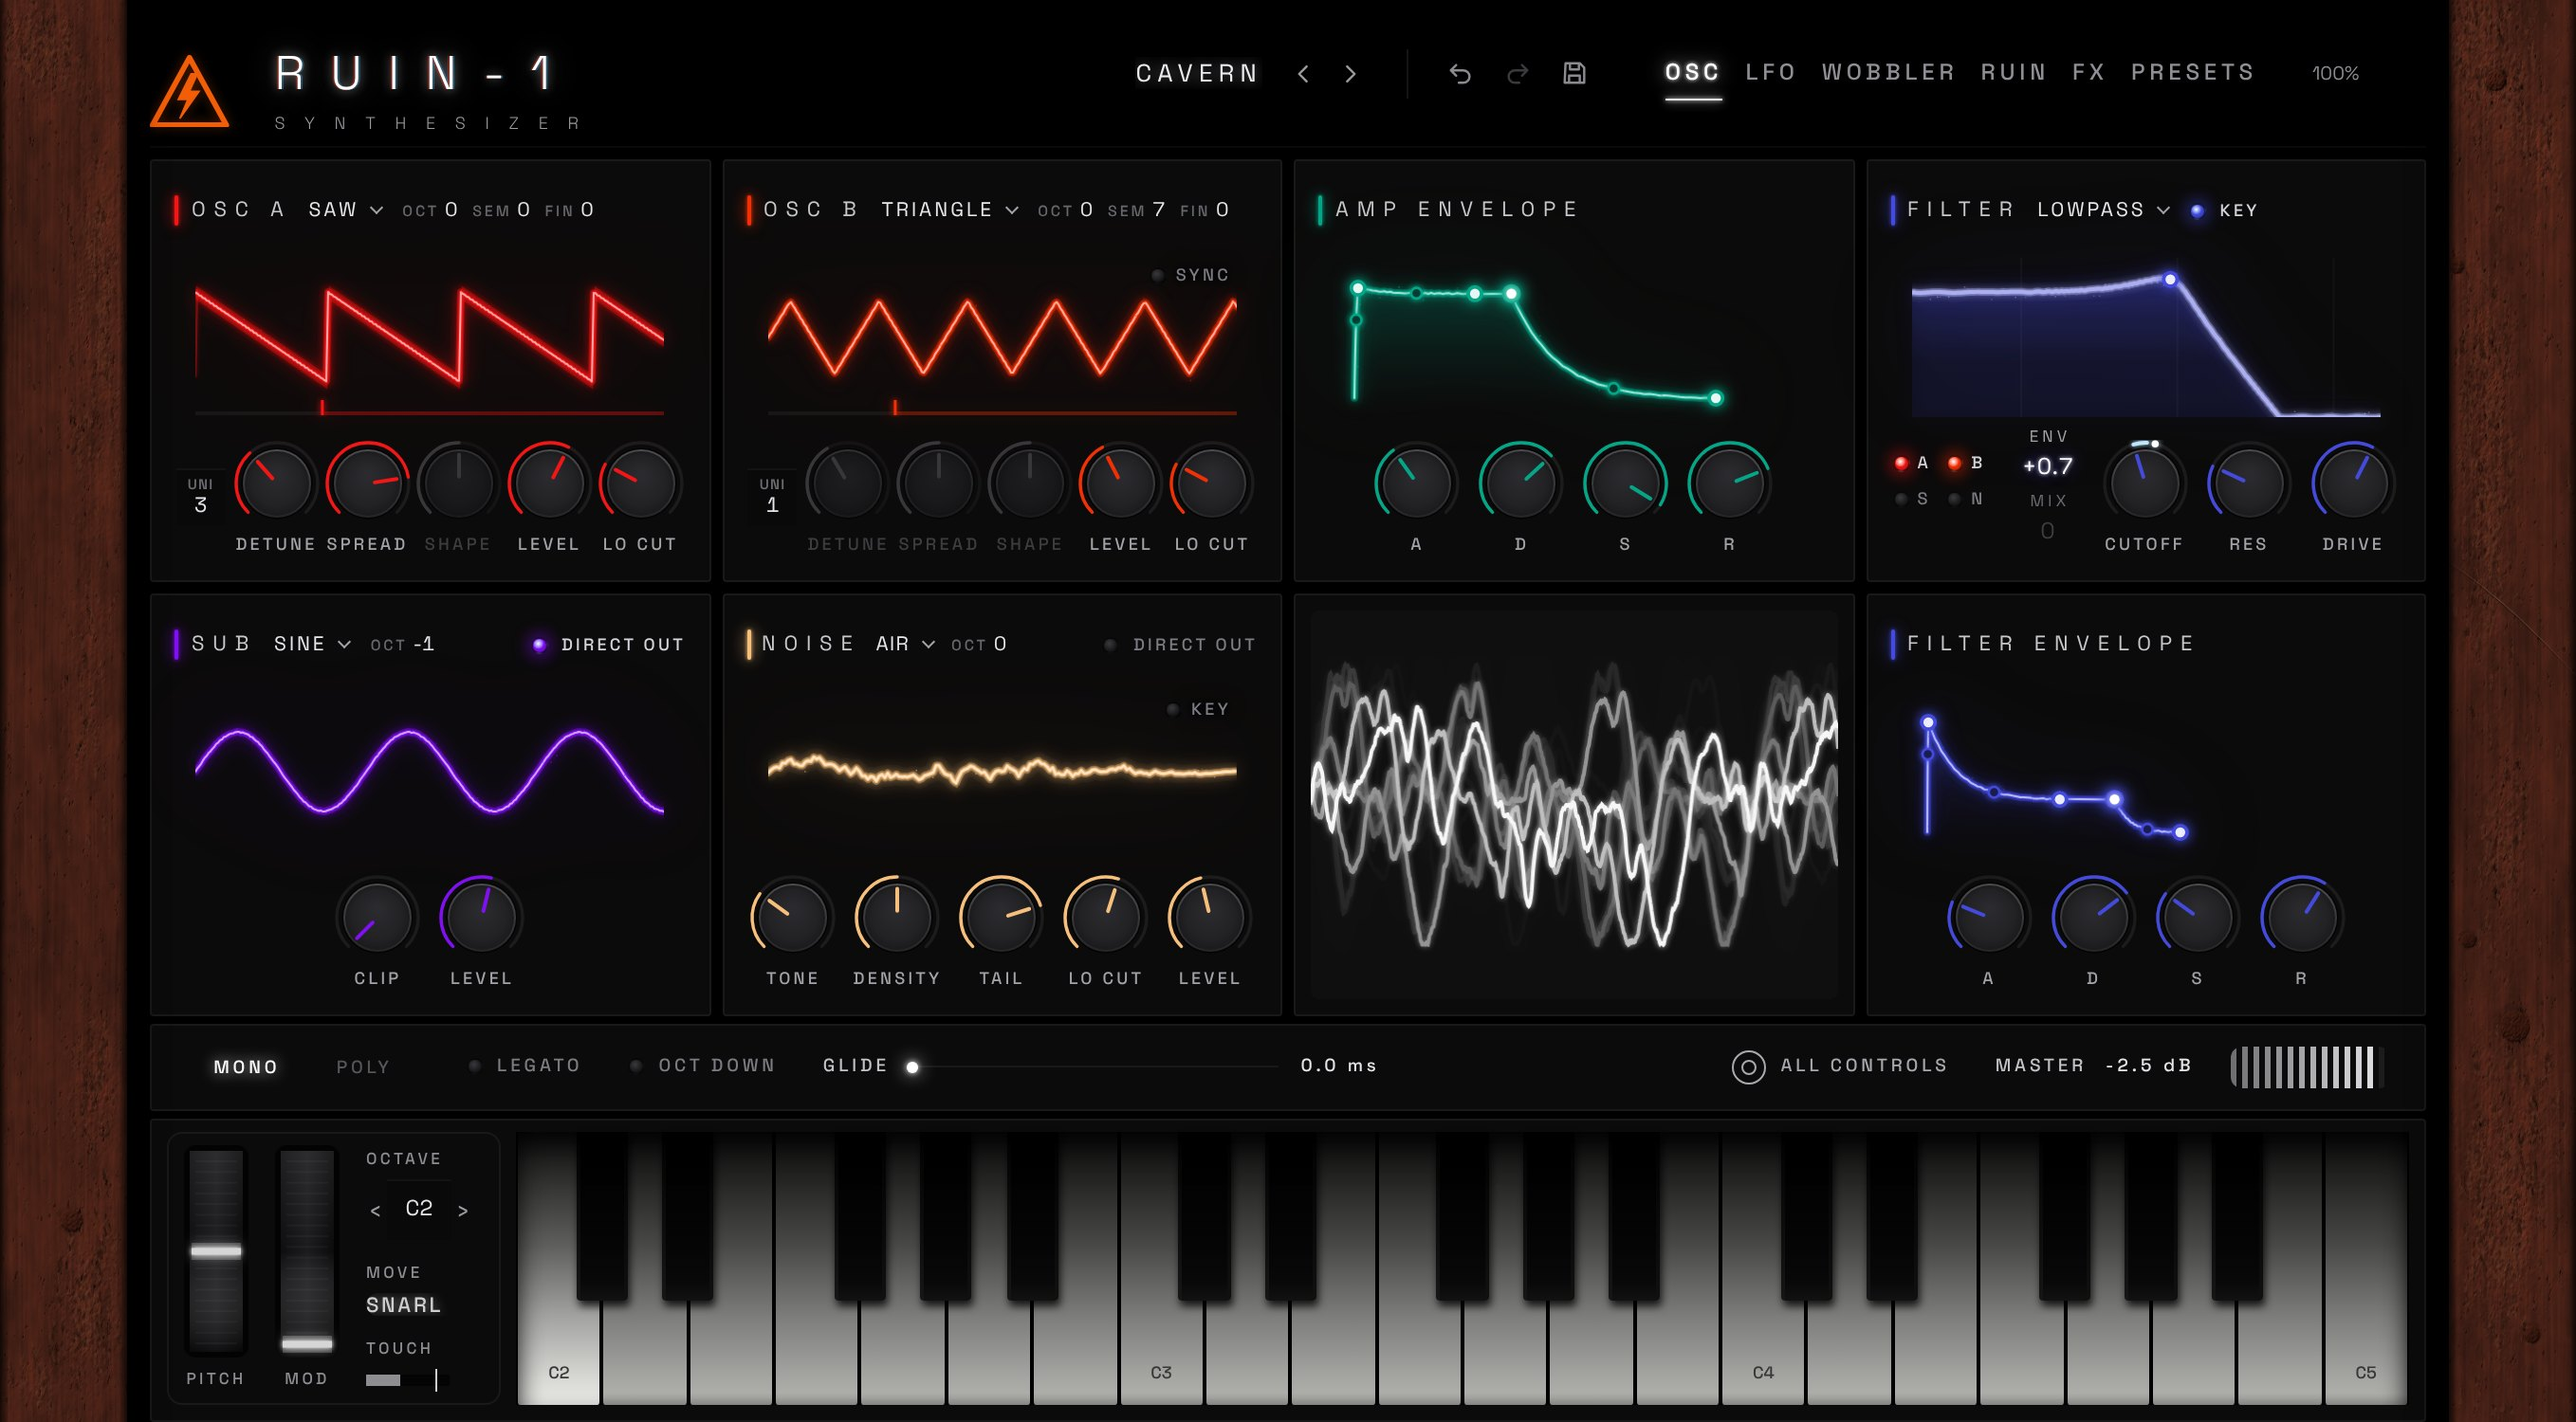
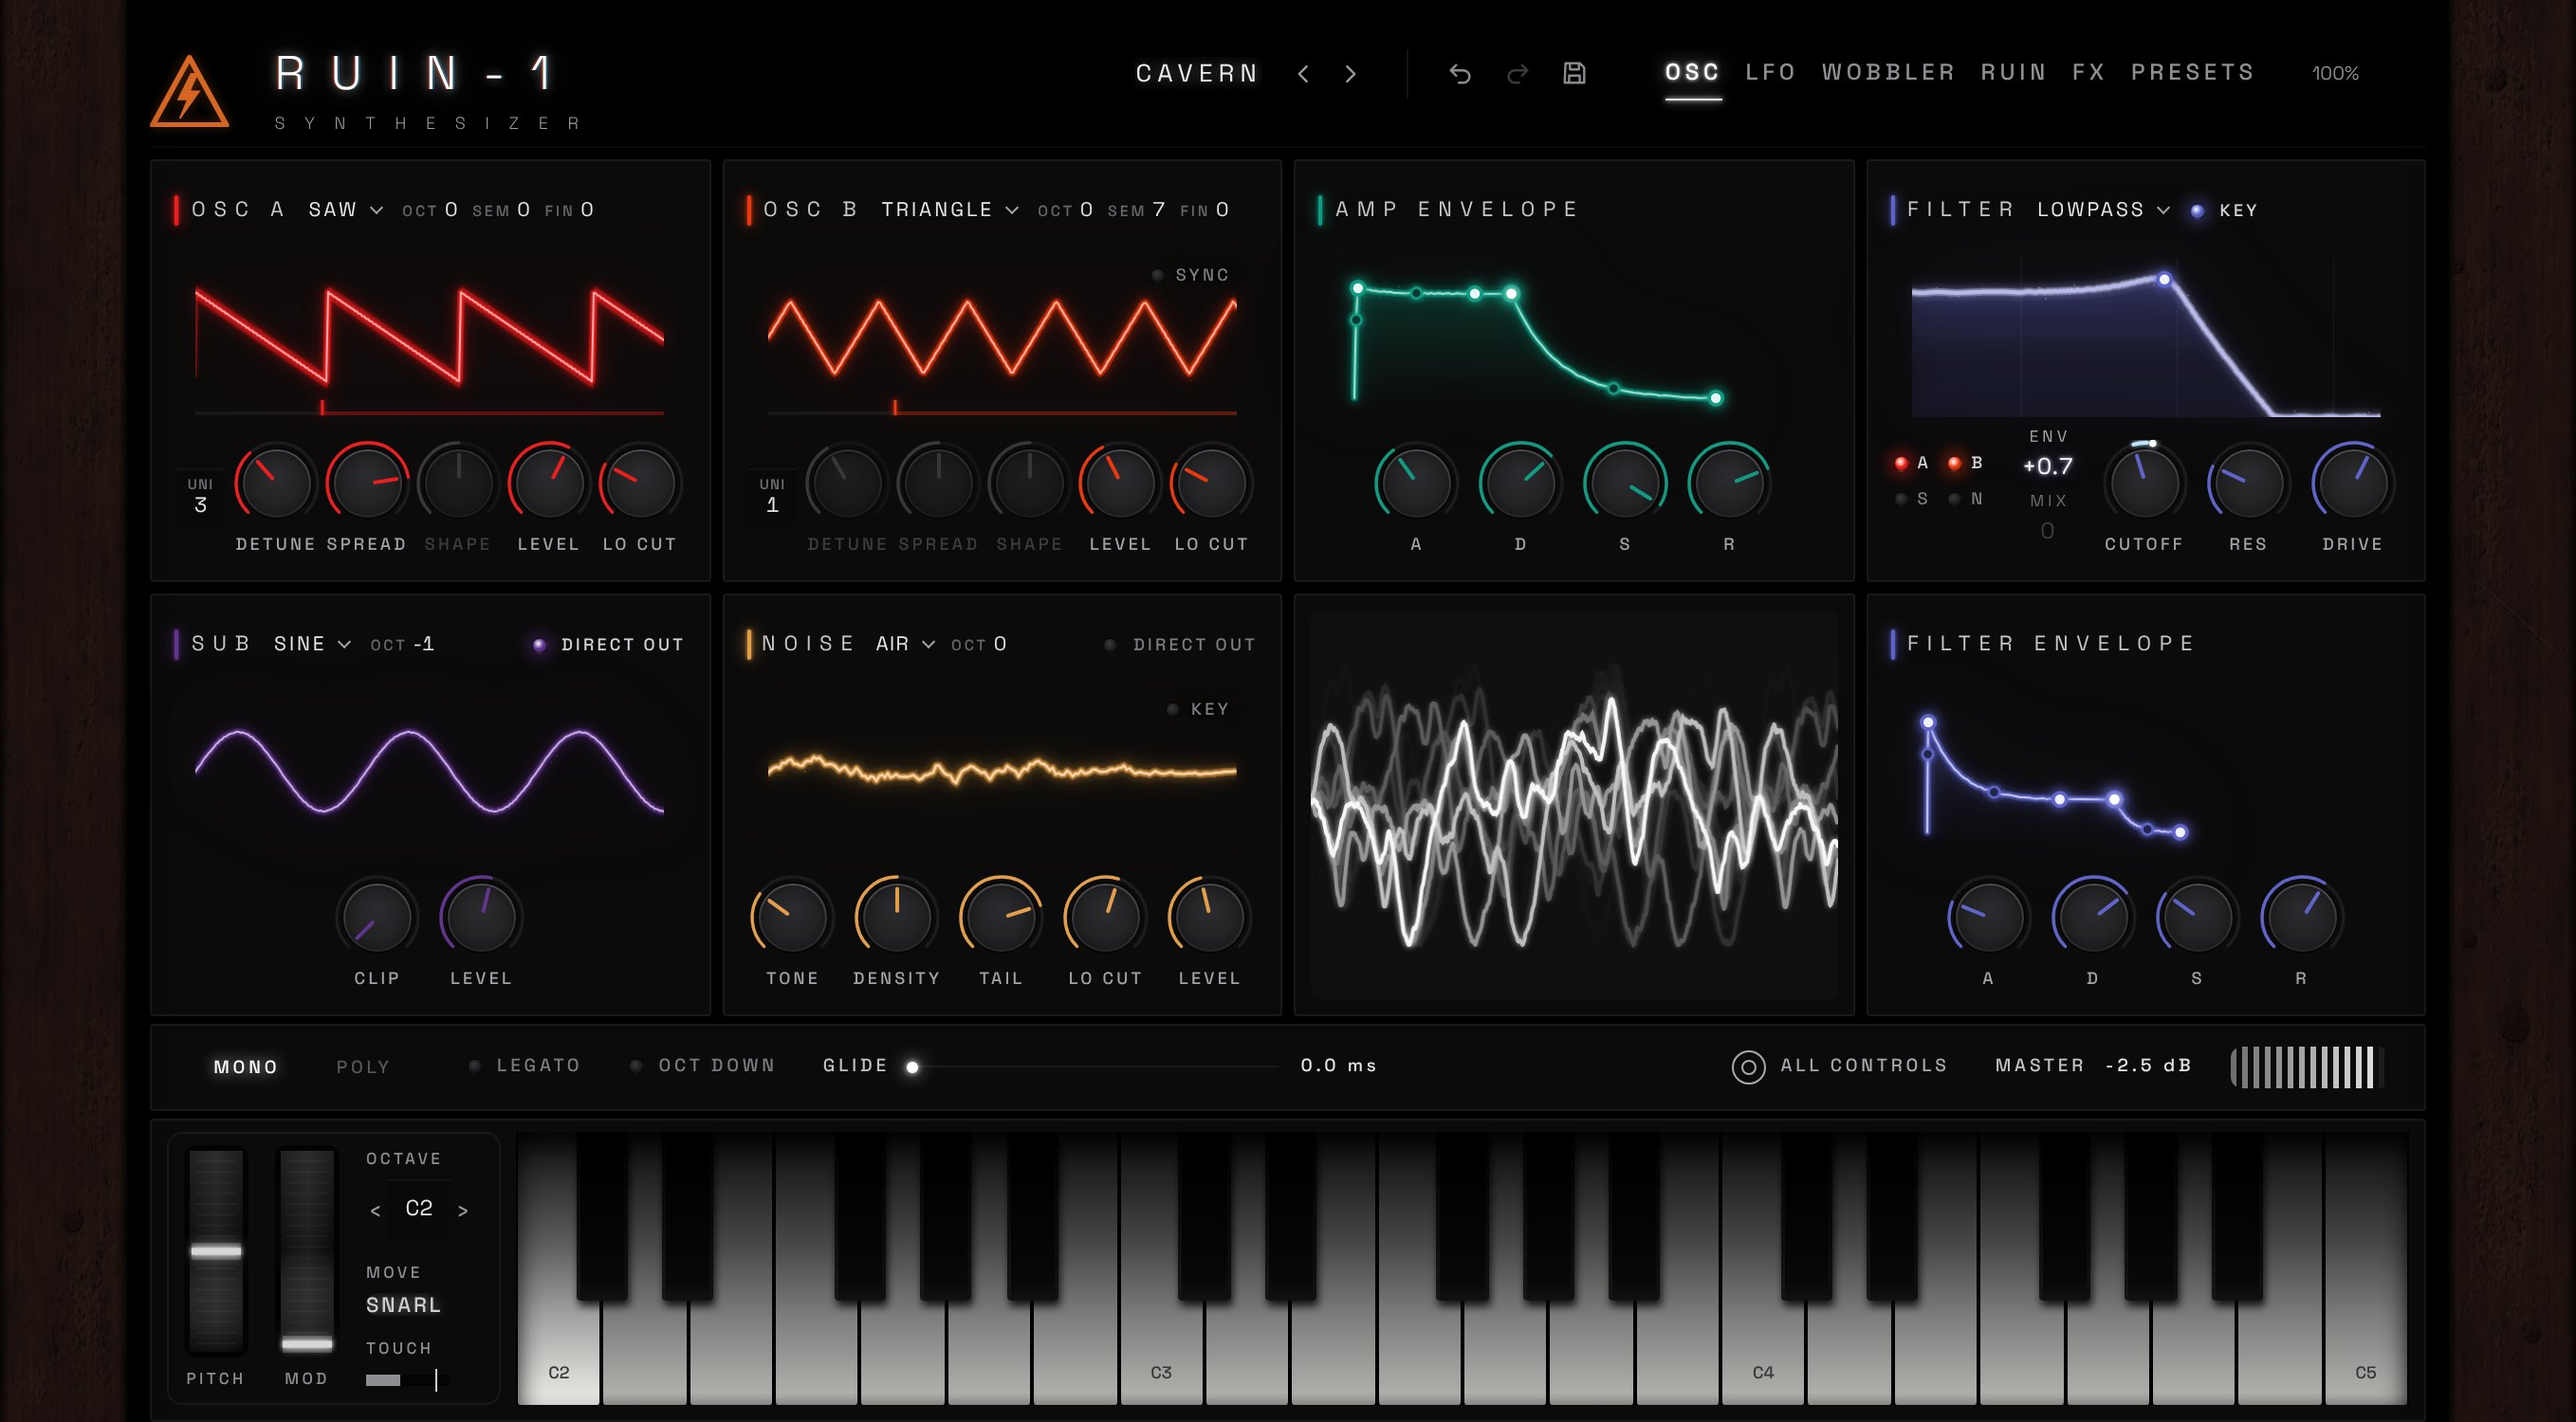
Colours the owner tuned with the colour tuner
Read from the tuner's saved values: logo #d66624, Buy #ff2f00, OSC A #ea1f1f, OSC B #e83911, amp
envelope #129b82, filter and filter envelope #5f64c8, sub #61348d, noise #e29e4b (routing LEDs
follow), wood #1c120d (brightness .5 saturate .6). Verified on the rendered page: knob arcs exact,
displays within deltaE2000 0.6, wood 1.3 (grain), Buy and logo exact. Website synth images retaken.

Claude-Session: https://claude.ai/code/session_015t9iDSEcbpZBuL6vXJAvue

diff --git a/src/ui/style.css b/src/ui/style.css
@@ -672,12 +672,12 @@ html, body, .v2-wrap { background: #070708; }
 .v2 .lamp-safe { --knob-accent: #ff2a14; }
 
 /* each box its own colour */
-.v2 .box-osca { --knob-accent: #f21616; }
-.v2 .box-oscb { --knob-accent: #f23005; }
-.v2 .box-amp { --knob-accent: #05a688; }
-.v2 .box-flt, .v2 .box-fenv { --knob-accent: #444bdc; }
-.v2 .box-sub { --knob-accent: #800ff2; }
-.v2 .box-noise { --knob-accent: #f6bf7c; }
+.v2 .box-osca { --knob-accent: #ea1f1f; }
+.v2 .box-oscb { --knob-accent: #e83911; }
+.v2 .box-amp { --knob-accent: #129b82; }
+.v2 .box-flt, .v2 .box-fenv { --knob-accent: #5f64c8; }
+.v2 .box-sub { --knob-accent: #61348d; }
+.v2 .box-noise { --knob-accent: #e29e4b; }
 .v2 .box-scope { --knob-accent: #d8f0e6; }
 
 /* header: the scene behind the logo, the preset selector and the tabs */
@@ -1177,10 +1177,10 @@ html, body, .v2-wrap { background: #070708; }
    source's colour; an on/off lamp in front of every matrix row; All controls and Master on the right. */
 .v2 .ob-head > .direct-out { margin-left: auto; font-size: 9px; letter-spacing: 0.18em; white-space: nowrap; }
 .v2 .ob-dials .ob-routes { margin-left: 0 !important; margin-right: 6px; }
-.v2 .route-a { --knob-accent: #f21616; }
-.v2 .route-b { --knob-accent: #f23005; }
-.v2 .route-s { --knob-accent: #800ff2; }
-.v2 .route-n { --knob-accent: #f6bf7c; }
+.v2 .route-a { --knob-accent: #ea1f1f; }
+.v2 .route-b { --knob-accent: #e83911; }
+.v2 .route-s { --knob-accent: #61348d; }
+.v2 .route-n { --knob-accent: #e29e4b; }
 .v2 .mx-on { flex: none; background: transparent; border: 0; padding: 0; margin-right: 2px; cursor: pointer; display: flex; }
 .v2 .mx-row.off > :not(.mx-on) { opacity: 0.32; }
 .v2 .v2-bottom .gear { margin-left: auto; }
@@ -1713,9 +1713,9 @@ html, body, .v2-wrap { background: #070708; }
 .v2 .v2-top > .pre-sel { position: absolute; z-index: 3; }
 /* measured: the top of RUIN-1's letters sits 28.8 px down the bar, the bottom of SYNTHESIZER's at 67.2 px */
 .v2 .v2-logo { flex: none; position: relative; margin-right: 18px; display: block; line-height: 0; align-self: flex-start !important; margin-top: 28.8px; --logo-h: 38.4px; }
-.v2 .v2-logo svg { display: block; height: var(--logo-h, 44px); width: auto; filter: drop-shadow(0 0 3px rgba(242,93,7,0.35)); }
-.v2 .v2-logo svg path { stroke: #f25d07; }
-.v2 .v2-logo svg path[fill] { fill: #f25d07; }
+.v2 .v2-logo svg { display: block; height: var(--logo-h, 44px); width: auto; filter: drop-shadow(0 0 3px rgba(214,102,36,0.35)); }
+.v2 .v2-logo svg path { stroke: #d66624; }
+.v2 .v2-logo svg path[fill] { fill: #d66624; }
 .v2 .v2-logo-wear { position: absolute; inset: 0; pointer-events: none; background: var(--logo-wear, none) 0 0 / 100% 100%; }
 .v2 .brand-name { text-shadow: -1px 0 rgba(255,42,20,0.35), 1px 0 rgba(60,190,255,0.3), 0 0 6px rgba(255,255,255,0.6), 0 0 18px rgba(255,255,255,0.3) !important; }
 .v2 .wood-l { background: var(--wood-l, #42201a) 0 0 / 100% 100% no-repeat; }
@@ -1742,4 +1742,4 @@ html, body, .v2-wrap, .v2.v2, .v2.v2 .v2-top, .v2.v2 .v2-main { background: #000
 .v2.v2 .scope-glass::after { display: none !important; }
 /* the wooden cheeks a really dark brown (owner's reference): the same wood at half its brightness, colour kept
    (measured: rgb ~34 / 15.5 / 10.5, every channel 49% of the original) */
-.v2 .wood { filter: none; }
+.v2 .wood { filter: brightness(.5) saturate(.6); }

diff --git a/website/style.css b/website/style.css
@@ -4,7 +4,7 @@
 @font-face { font-family: Manrope; font-weight: 200 600; font-display: swap; src: url('../design/fonts/manrope-latin-var.woff2') format('woff2'); }
 :root {
   --ink: #ece8e4; --head: #f3eee8; --soft: #9b958f; --mute: #7a746f; --dim: #55504c;
-  --red: #ff2a14; --buy: #f23005; --logo: #f25d07; --hot: #ff6a1a; --deep: #8a0a04;
+  --red: #ff2a14; --buy: #ff2f00; --logo: #d66624; --hot: #ff6a1a; --deep: #8a0a04;
   --ease: cubic-bezier(.2, .7, .2, 1);
 }
 * { box-sizing: border-box; margin: 0; padding: 0; }
@@ -17,8 +17,8 @@ button { font: inherit; color: inherit; background: none; border: 0; cursor: poi
 
 /* ---------- buttons: square, the main one solid alarm red */
 .btn { height: 48px; padding: 0 28px; display: inline-flex; align-items: center; justify-content: center; gap: 12px; font-size: 12px; font-weight: 600; letter-spacing: .22em; text-transform: uppercase; transition: box-shadow .3s, background .3s, border-color .3s; }
-.b1 { background: var(--buy); color: #0a0100; box-shadow: 0 0 24px rgba(242,48,5,.45); }
-.b1:hover { box-shadow: 0 0 36px rgba(242,48,5,.75); }
+.b1 { background: var(--buy); color: #0a0100; box-shadow: 0 0 24px rgba(255,47,0,.45); }
+.b1:hover { box-shadow: 0 0 36px rgba(255,47,0,.75); }
 .b2 { border: 1px solid #4a4542; }
 .b2:hover { border-color: var(--ink); }
 .bs { height: 34px; padding: 0 16px; font-size: 11px; }

diff --git a/website/DESIGN.md b/website/DESIGN.md
@@ -61,15 +61,15 @@ match that: pushed to the gamut edge at its hue, with its own glow.
 Visual sheet of the whole palette: ask Claude to render it (the owner keeps a PNG of it).
 
 ### Logo colour
-**Logo orange `#f25d07`** (`--logo`; owner's pick, painted on a screenshot): the logo files in `design/`
+**Logo orange `#d66624`** (`--logo`; owner's pick, painted on a screenshot): the logo files in `design/`
 (`logo.svg`, `logo-tight.svg`) and the synth's own logo use it.
 
 ### Buy and the synth's colours (owner's paint-over)
-- **Buy buttons: `#f23005`** (`--buy`), with a glow `rgba(242,48,5,.45)` (hover `.75`). Alarm red stays for the
+- **Buy buttons: `#ff2f00`** (`--buy`), with a glow `rgba(255,47,0,.45)` (hover `.75`). Alarm red stays for the
   other active states.
-- **The synth's modules** (`src/ui/style.css`, "each box its own colour"): OSC A `#f21616`, OSC B `#f23005`,
-  amp envelope `#05a688`, filter and filter envelope `#444bdc`, sub `#800ff2`, noise `#f6bf7c`; the routing LEDs
-  A / B / S / N follow their module. The wooden cheeks their original brown (measured `#451f16`, no filter).
+- **The synth's modules** (`src/ui/style.css`, "each box its own colour"): OSC A `#ea1f1f`, OSC B `#e83911`,
+  amp envelope `#129b82`, filter and filter envelope `#5f64c8`, sub `#61348d`, noise `#e29e4b`; the routing LEDs
+  A / B / S / N follow their module. The wooden cheeks a very dark brown `#1c120d` (the owner's own tuning, saved from the colour tuner).
 
 ---
 
